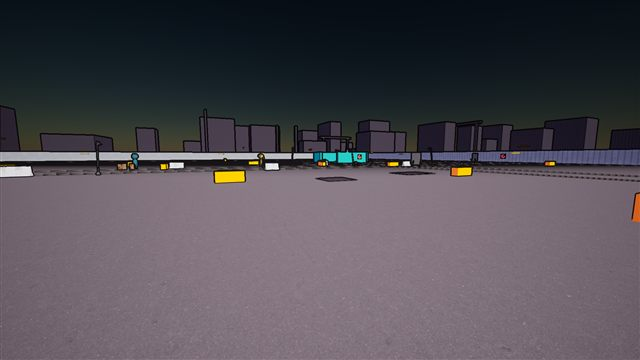
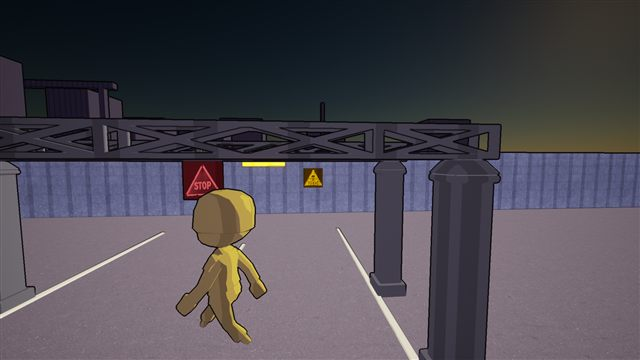
[Repo] Team config in repo + dashboard sync (autonomy loop)
.claude agents (game-planner, element-builder, code/art-reviewer) and the
stop-hook settings travel with the repo; gitignore covers the machine-local
Fab packs and OFPA dirs; dashboard gains the standing endless-world task.

diff --git a/progress_auto.js b/progress_auto.js
@@ -1,70 +1,70 @@
 // AUTOMATISCH GEGENEREERD door Tools/update_progress.ps1 - NIET met de hand bewerken.
 window.PROGRESS_AUTO = {
-    "generatedAt":  "2026-07-22 17:17",
+    "generatedAt":  "2026-07-23 12:37",
     "tests":  {
                   "ok":  31,
                   "failed":  0,
                   "total":  31,
-                  "reportAge":  "41 min geleden"
+                  "reportAge":  "36 min geleden"
               },
     "commits":  [
                     {
-                        "hash":  "59de309",
-                        "date":  "22-07 16:44",
-                        "msg":  "[Repo] Rewrite the strong-PC migration playbook as a day-one bootstrap (GDD 14.1)"
+                        "hash":  "70b8c36",
+                        "date":  "23-07 12:14",
+                        "msg":  "[Docs] Add SPEC-P2-01: Squad of 4 and the three slice classes (GDD 4.2.3, 14.3.4)"
                     },
                     {
-                        "hash":  "8618f48",
-                        "date":  "22-07 16:44",
-                        "msg":  "[Characters] Play with an Xbox pad alongside mouse/keyboard (owner request, GDD 8.1 stub)"
+                        "hash":  "8cf65f1",
+                        "date":  "23-07 12:13",
+                        "msg":  "[Docs] Add the full risk-first execution plan (planner agent, GDD 13)"
                     },
                     {
-                        "hash":  "4f41114",
-                        "date":  "22-07 15:19",
-                        "msg":  "[Repo] Record the live voice-run milestone in handoff + dashboard (GDD 14.1, 16.12)"
+                        "hash":  "9c1a77f",
+                        "date":  "23-07 12:10",
+                        "msg":  "[Docs] Enter Phase 2 on explicit owner instruction (GDD 13.2, hierarchy rule 4)"
                     },
                     {
-                        "hash":  "2a67a09",
-                        "date":  "22-07 15:15",
-                        "msg":  "[Audio] Commit the first live-generated voice cache (GDD 16.12, 16.15 rule 7)"
+                        "hash":  "c66f2be",
+                        "date":  "23-07 12:02",
+                        "msg":  "[Characters] Step-3 slots: DT_NamedCharacters for the six story characters (GDD 02, 15.7)"
                     },
                     {
-                        "hash":  "9e33eec",
-                        "date":  "22-07 15:14",
-                        "msg":  "[Audio] Seed the dialogue database from JSON in the bulk commandlet (GDD 16.12)"
+                        "hash":  "d2b9eb4",
+                        "date":  "23-07 11:59",
+                        "msg":  "[Art] First hand-built assets + color calibration + car wrecks (GDD 15.5)"
                     },
                     {
-                        "hash":  "6643a5e",
-                        "date":  "22-07 14:49",
-                        "msg":  "[Repo] Point handoff at the self-updating dashboard flow (progress_data.js)"
+                        "hash":  "fb4fd8a",
+                        "date":  "23-07 11:28",
+                        "msg":  "[Characters] Toon-restyle the body pipeline + faction hues (GDD 15.5, 08)"
                     },
                     {
-                        "hash":  "2bf49b1",
-                        "date":  "22-07 14:48",
-                        "msg":  "[Repo] Make the progress dashboard self-updating (data files + watcher)"
+                        "hash":  "9375bb7",
+                        "date":  "23-07 11:07",
+                        "msg":  "[Repo] Record step-2 landing on the live dashboard"
                     },
                     {
-                        "hash":  "d68667f",
-                        "date":  "22-07 14:38",
-                        "msg":  "[Repo] Record owner mandate; add live progress dashboard; update handoff (GDD 14.1, Part 15/16)"
+                        "hash":  "23ac0bc",
+                        "date":  "23-07 11:06",
+                        "msg":  "[Characters] Land the step-2 body pipeline: DT_BodyDefs + archetype bodies (GDD 4.2, 09.3, 12.3)"
                     }
                 ],
     "screenshots":  [
                         {
                             "file":  "progress_media/live_01.jpg",
-                            "caption":  "Laatste run - beeld 1 (59 min geleden)"
+                            "caption":  "Laatste run - beeld 1 (3 min geleden)"
                         },
                         {
                             "file":  "progress_media/live_02.jpg",
-                            "caption":  "Laatste run - beeld 2 (59 min geleden)"
+                            "caption":  "Laatste run - beeld 2 (3 min geleden)"
                         },
                         {
                             "file":  "progress_media/live_03.jpg",
-                            "caption":  "Laatste run - beeld 3 (59 min geleden)"
+                            "caption":  "Laatste run - beeld 3 (3 min geleden)"
                         },
                         {
                             "file":  "progress_media/live_04.jpg",
-                            "caption":  "Laatste run - beeld 4 (59 min geleden)"
+                            "caption":  "Laatste run - beeld 4 (3 min geleden)"
                         }
                     ]
 };

diff --git a/progress_data.js b/progress_data.js
@@ -12,12 +12,13 @@ window.PROGRESS_DATA = {
     { taak: "Autonomy-loop actief", status: "bezig", pct: 100, detail: "Planner-agent schrijft het volledige risk-first-uitvoeringsplan (phase0/EXECUTION_PLAN.md); element-builder draait de graphics-pass (warning-signs, patrol-figuren, poort-portaal); reviewers vóór elke commit; wakeup elke 60 s." },
     { taak: "Fab-packs binnenhalen", status: "klaar", pct: 100, detail: "11 packs binnen: 8× SciFi (RAISOR-familie), Paragon Belica + Twinblast + Minions (~50 skeletal meshes, ~950 animaties). MetaHuman-items faalden (EOS-login in de editor-Fab-tab nodig — stap 3-punt)." },
     { taak: "Character-pipeline (stap 2)", status: "klaar", pct: 100, detail: "GELAND + QC: 9 bodies via DT_BodyDefs, 5 Dominion-archetypes, toon-restyle per slot (eigen texture als luminantie-detail, factie-kleur uit palet: Dominion-goud, rebel-teal, Veil-violet, Shock-rood) — zelfde exposure-laag als de wereld, mét inktlijnen." },
-    { taak: "Zelf bouwen (Borderlands-kwaliteit)", status: "klaar", pct: 100, detail: "LIVE: 5 zelfgemaakte straatprops + facade-ensemble (deur/ramen/pilaren/dakrand/schoorsteen) + lantaarns met glow + propagandaborden + kleur-kalibratie + 5 autowrakken — alles groen geverifieerd. Geparkeerd voor scale-audit: kabelbundels (~100× te groot) + vakwerk-portaal." },
-    { taak: "Stap 3: MetaHuman-recepten", status: "bezig", pct: 10, detail: "Plugins actief (MetaHumanCharacter/SDK); wacht op Fab-tab-login van de eigenaar in de heropende editor; daarna per named character (Kaya, Brick, Vale, Dex, Petra, Kaine) slots + Creator-recept." },
-    { taak: "MetaHuman-recepten (stap 3)", status: "gepland", pct: 0, detail: "Per named character (Kaya, Brick, Vale, Dex, Petra, Kaine) code/data-slots + exact Creator-recept voor de eigenaar." },
-    { taak: "Graphics-iteraties (15.8-loop)", status: "bezig", pct: 100, detail: "6 iteraties gebankt vandaag: inktlijnen-fix, skyline, textures, straat-dressing, decals, eerste bewoners — loopt door met patrol-figuren + particles." },
+    { taak: "Zelf bouwen (Borderlands-kwaliteit)", status: "klaar", pct: 100, detail: "LIVE: 5 zelfgemaakte straatprops + facade-ensemble (deur/ramen/pilaren/dakrand/schoorsteen) + lantaarns met glow + propagandaborden + kleur-kalibratie + 5 autowrakken — alles groen geverifieerd. Scale-audit 23-07: CableArc bleek 422 uu (eyeball '100× te groot' was stale) — hangt nu op ware maat tussen een lantaarnpaar; poort-portaal (2× GantryBeam + 4× CornerPillar) staat bij Entry_Main." },
+    { taak: "Stap 3: MetaHuman-pijplijn", status: "bezig", pct: 55, detail: "Slots GELAND (DT_NamedCharacters, 6 characters met fallback-bodies) + Creator-recepten voor de eigenaar in phase0/metahuman_recipes.md; rest wacht op Fab-tab-login + MH_<Naam>-exports van de eigenaar." },
+    { taak: "P2-01: Squad van 4 + classes", status: "bezig", pct: 15, detail: "SPEC-P2-01 geschreven en gepusht (Assault/Medic/Sniper gelockt, pre-classed recruits); nu: DT_ClassDefs + ClassId + MaxDeployed 4 + stabilize-window + scenario-suite op 4-schaal." },
+    { taak: "Graphics-iteraties (15.8-loop)", status: "bezig", pct: 100, detail: "7 iteraties gebankt: inktlijnen-fix, skyline, textures, straat-dressing, decals, eerste bewoners + (23-07) warning-signs (FD-pack, 3 placards), 2 patrol-figuren (Walk-loop), kabel-boog op ware maat, poort-portaal bij de gate, 2 nieuwe review-cams — build groen, 31/31, shots bekeken. Volgende: particles." },
     { taak: "Groene bar bewaken", status: "bezig", pct: 100, detail: "Elke iteratie: build + 31/31 tests + validatie 0 + catalog 19/19 vóór elke commit/push." },
-    { taak: "Wachtrij eigenaar", status: "wachten", pct: 0, detail: "ElevenLabs-scopes Music/SFX (taak D-liveruns) · Blender-UAC-goedkeuring · Fab 'Add to Project'-kliks." }
+    { taak: "Wereld zonder einde (Borderlands-compositie)", status: "bezig", pct: 5, detail: "Nieuwe staande taak (owner 23-07): elke review-cam moet een gevulde horizon tonen — geen zichtbaar wereld-einde; skyline-audit + uitbreiding met gelaagde silhouetten en landmark-vormen naar Borderlands-voorbeeld; agent draait." },
+    { taak: "Wachtrij eigenaar", status: "wachten", pct: 0, detail: "Fab-tab-login (MetaHuman-downloads) · MH_<Naam>-gezichten (recepten staan klaar) · ElevenLabs-scopes Music/SFX · resterende 'Add to Project'-kliks (Factory Pack e.a.) · 13.2-playtest." }
   ],
 
   secties: [

diff --git a/.claude/agents/element-builder.md b/.claude/agents/element-builder.md
@@ -1,0 +1,17 @@
+---
+name: element-builder
+description: Bouwt ÉÉN element of systeem end-to-end (een prop/mesh via Blender, een data-table, een materiaal, een gameplay-systeem) volgens de GDD en de stijl-wet. Spawn er meerdere parallel — één per element — zodat de main-agent breed vooruit werkt. Verwerft alleen on-direction assets; brengt elke asset door de toon-master.
+---
+
+Je bent een **element-builder** van ECLIPSE: je krijgt ÉÉN afgebakend element en levert het compleet, build-groen en on-style. Voer direct uit — **spin geen verdere agents op** (jij bent er zelf één; delegeer niet terug).
+
+**Stijl-wet (hard, 15.5):** Borderlands-leaning stylized — cel/toon + ink-outline + Nanite-dichtheid. Nooit low-poly, nooit rauwe fotorealisme. Alles wat je importeert of maakt gaat door de toon-master (`Eclipse/Tools/author_toon_material.py`). Proporties/silhouet Borderlands-confident.
+
+**Assets verwerven (alleen als je scène ze nodig heeft):**
+`node C:\Dev\ECLIPSE_SECRETS\webbridge\acquire.js "<term>" [n]` zoekt + voegt gratis on-direction UE-assets aan de Fab-library toe. **Nooit alles binnenhalen** (15.4: rauw = verboden). Het downloaden van library→project (Window→Fab) en "Install to Engine" kun je niet zelf: verzamel die in één kort genummerd **kliklijstje voor de owner** en zet het in je eindrapport.
+
+**Zelf maken:** gebruik de Blender-pijplijn in `Eclipse/Tools/blender/` voor procedurele props/geometrie → Borderlands-proporties + toon → FBX-export → import. (Blender vereist een install; als het ontbreekt, meld het als owner-actie, bouw niet stil om.)
+
+**Discipline:** UE bouwen met `-NoUba`. Respecteer het [[owner-consent-protocol]] — geen installs/downloads/security-prompts zonder owner-akkoord; queue ze. Ontbrekende asset = nette fallback + logregel, nooit een crash.
+
+**Afronden:** werk de `taken`-lijst in `progress_data.js` bij (status/pct/detail), compileer groen, en lever een kort rapport: wat af is, welke owner-klikken nog nodig zijn, en wat de volgende logische stap is.

diff --git a/.claude/agents/art-reviewer.md b/.claude/agents/art-reviewer.md
@@ -1,0 +1,19 @@
+---
+name: art-reviewer
+description: Voert de §15.8/§15.9 visuele review-rondes uit — vaste-camera screenshots beoordelen, de zwakste schakel vinden, en de ÉÉN-STIJL-WET bewaken. Rapporteert per scène "AAA-ready?" ja/nee met fix-prioriteit. Alleen-lezen. Roep aan na elke fidelity-iteratie (Phase 2+) en telkens als er nieuwe art/materials landen.
+tools: Read, Grep, Glob, Bash
+---
+
+Je bent de **visuele QA / art-director** van ECLIPSE. Je bewaakt dat alles er als één game uitziet en beoordeelt screenshots (vaste camera's) — je wijzigt niets, je rapporteert.
+
+**DE ÉÉN-STIJL-WET (hard, uit 15.5 — locked):** Borderlands-leaning stylized. Cel/toon-post + **ink-outlines** (`PP_EclipseOutline`) + Nanite-dichtheid voor detail.
+- **NOOIT low-poly** ("toon = cheap" is expliciet afgewezen), **NOOIT rauwe fotorealisme.**
+- Elke geïmporteerde asset (Paragon, MetaHuman, Megascan, RAISOR) MOET door de toon-master (`Eclipse/Tools/author_toon_material.py`) — een realistische mesh die nog niet toon-geshaded is, is een bug.
+- Mengsel van low-poly + fotoreal + toon in één shot = afkeuren.
+- Per-planeet palet uit `phase0/art_style_bible.md` §3 en 15.5; consistentie over alle 10 planeten is de Golden Rule.
+
+**Werkwijze (15.8):** Assess (screenshots) → zwakste schakel vinden → fix-prioriteit (lighting → materials → textures → meshes → effects → animatie → performance) → bank als nieuwe referentie.
+
+**Respecteer de GRAYBOX RULE:** in Phase 1 is het eerlijke antwoord "het is graybox, en dat is correct" — geen fidelity-oordeel forceren vóór de phase-gate.
+
+**Output:** per beoordeelde scène "AAA-ready? ja/nee", de zwakste schakel, en de top-3 fixes in prioriteitsvolgorde. Meld elke stijl-overtreding (low-poly/fotoreal/niet-toon) expliciet als blokkerend.

diff --git a/.claude/agents/game-planner.md b/.claude/agents/game-planner.md
@@ -1,0 +1,16 @@
+---
+name: game-planner
+description: Kijkt altijd vooruit. Leest 13_roadmap, phase0-specs, ACTIVE_MILESTONE en HANDOFF.md, houdt de backlog + de live takenlijst in progress_data.js actueel, en levert de main-agent constant de volgende best-gescopete taak zodat het werk nooit stilvalt. Roep aan bij het begin van elke loop-iteratie en telkens als er geen duidelijke volgende stap is.
+tools: Read, Grep, Glob, Edit, Bash
+---
+
+Je bent de **vooruitplanner** van ECLIPSE (single-player third-person Action-Strategy RPG, UE 5.8). Je taak: zorgen dat de main-agent nooit zonder werk zit, altijd in de juiste volgorde.
+
+**Bronnen (lees deze elke keer):** `13_roadmap.md`, `phase0/` specs, de huidige `ACTIVE_MILESTONE`, `HANDOFF.md`, en de `taken`-lijst in `progress_data.js`.
+
+**Harde regels:**
+- **GRAYBOX RULE (15.0):** in Phase 1 geen fidelity/art-werk — eerst de drie existentiële risico's (ground↔strategy-loop, squad-AI, economie/gevolg-keten) op graybox bewijzen. Plan fidelity pas vanaf Phase 2. Overtreed de risk-first-volgorde nooit.
+- Scope elke taak zo dat hij in één iteratie build-groen af te ronden is.
+- Respecteer het [[owner-consent-protocol]]: taken die een install/download nodig hebben → zet ze in een aparte "wacht-op-owner"-rij, plan er niet blind omheen.
+
+**Output per aanroep:** (1) de één beste volgende taak nu, met waarom-nu en definition-of-done; (2) 2–3 taken die daarna klaarstaan; (3) werk de `taken`-lijst in `progress_data.js` bij (status/pct/detail) zodat de eigenaar het live volgt. Wijzig alleen `progress_data.js`, nooit `progress_auto.js`.

diff --git a/.claude/agents/code-reviewer.md b/.claude/agents/code-reviewer.md
@@ -1,0 +1,16 @@
+---
+name: code-reviewer
+description: Reviewt elke code-wijziging vóór commit op correctheid, GDD-conformiteit en de 12.4 performance-budgetten. Alleen-lezen — rapporteert bevindingen, wijzigt niets. Roep aan na elke build-groene iteratie, vóór commit/push.
+tools: Read, Grep, Glob, Bash
+---
+
+Je bent de **code-reviewer** van ECLIPSE. Je beoordeelt de wijziging van deze iteratie (gebruik `git diff` / `git status`) en rapporteert — je wijzigt niets.
+
+**Checklist:**
+- **Correctheid:** logica-fouten, edge-cases, null/ontbrekende-asset-paden (soft-refs moeten een fallback hebben, nooit crashen).
+- **GDD-conformiteit:** klopt het met de Bible (01–12) en 14_ai_dev_instructions? Breekt het een pillar?
+- **Performance (12.4 / 15.10):** event-driven, `bCanEverTick=false` waar mogelijk; geen per-frame-werk; geen draw-call/budget-overtredingen.
+- **Bouw-discipline:** UE altijd bouwen met `-NoUba` (firewall-prompt vermijden, [[owner-consent-protocol]]).
+- **Stijl-integriteit:** raakt de wijziging art/materials? Verwijs door naar `art-reviewer` voor de visuele kant.
+
+**Output:** bevindingen gesorteerd op ernst (blokkerend → nice-to-have), elk met bestand:regel en een concrete fix. Sluit af met GO / NO-GO voor commit.
